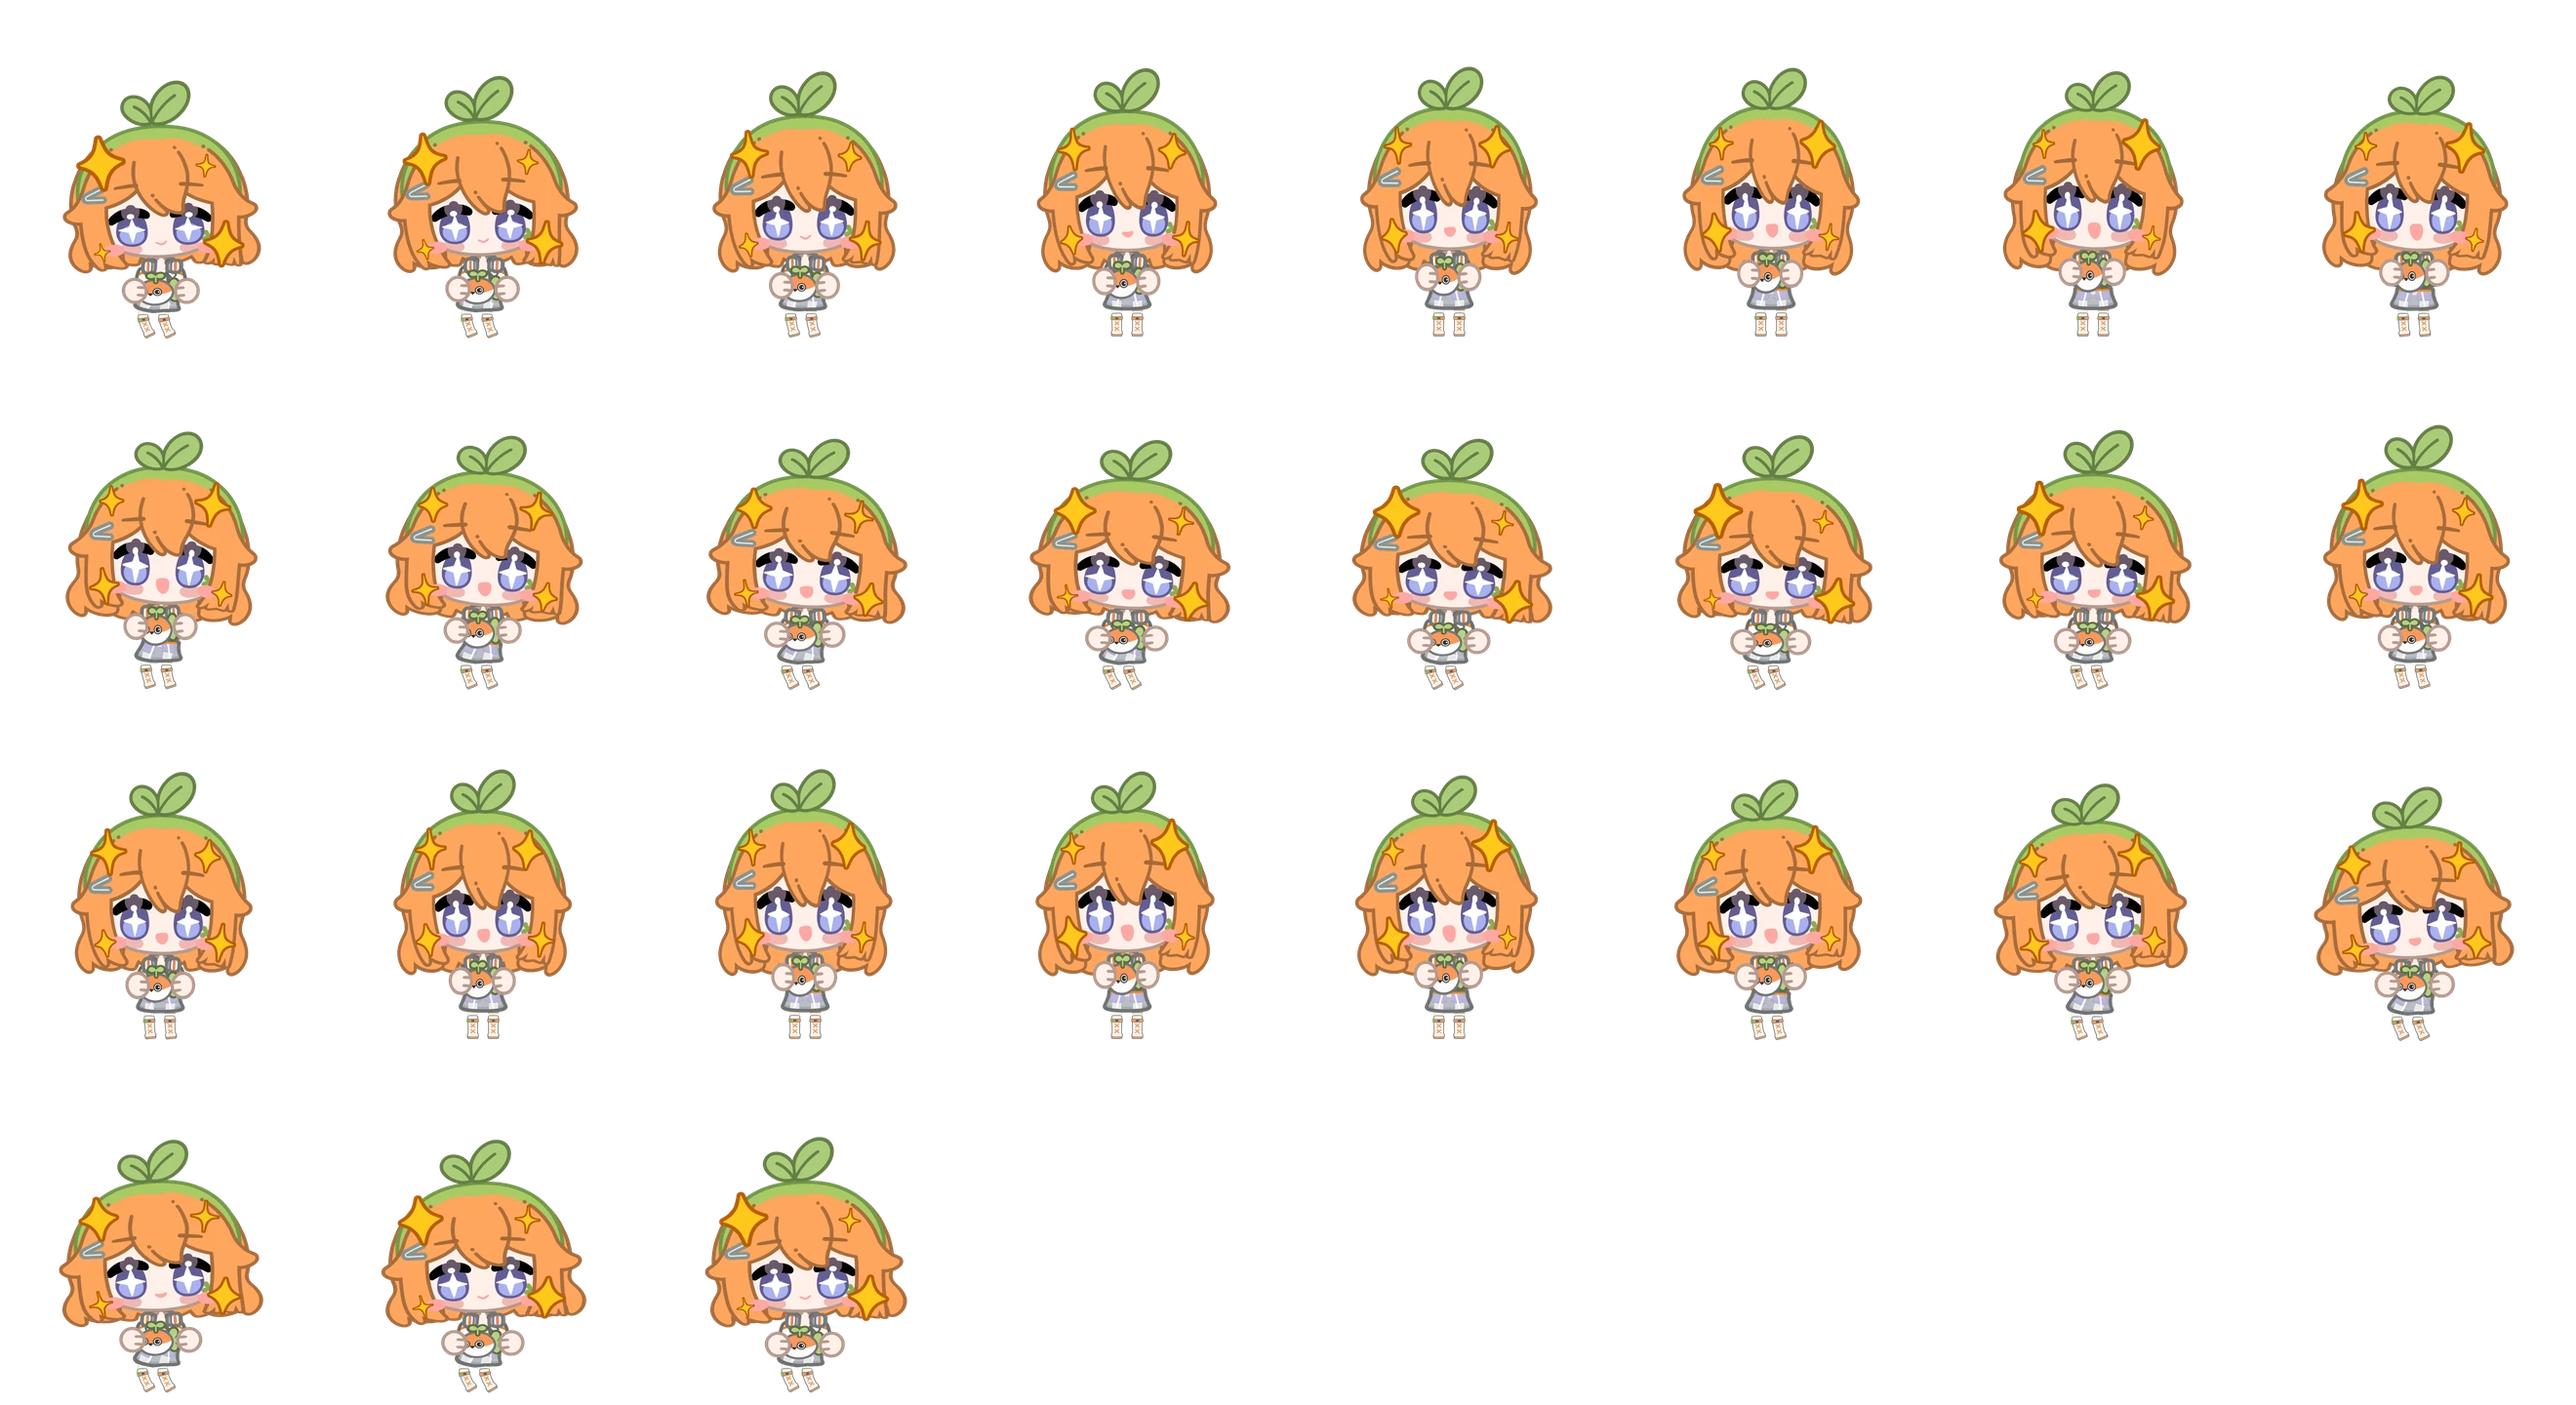
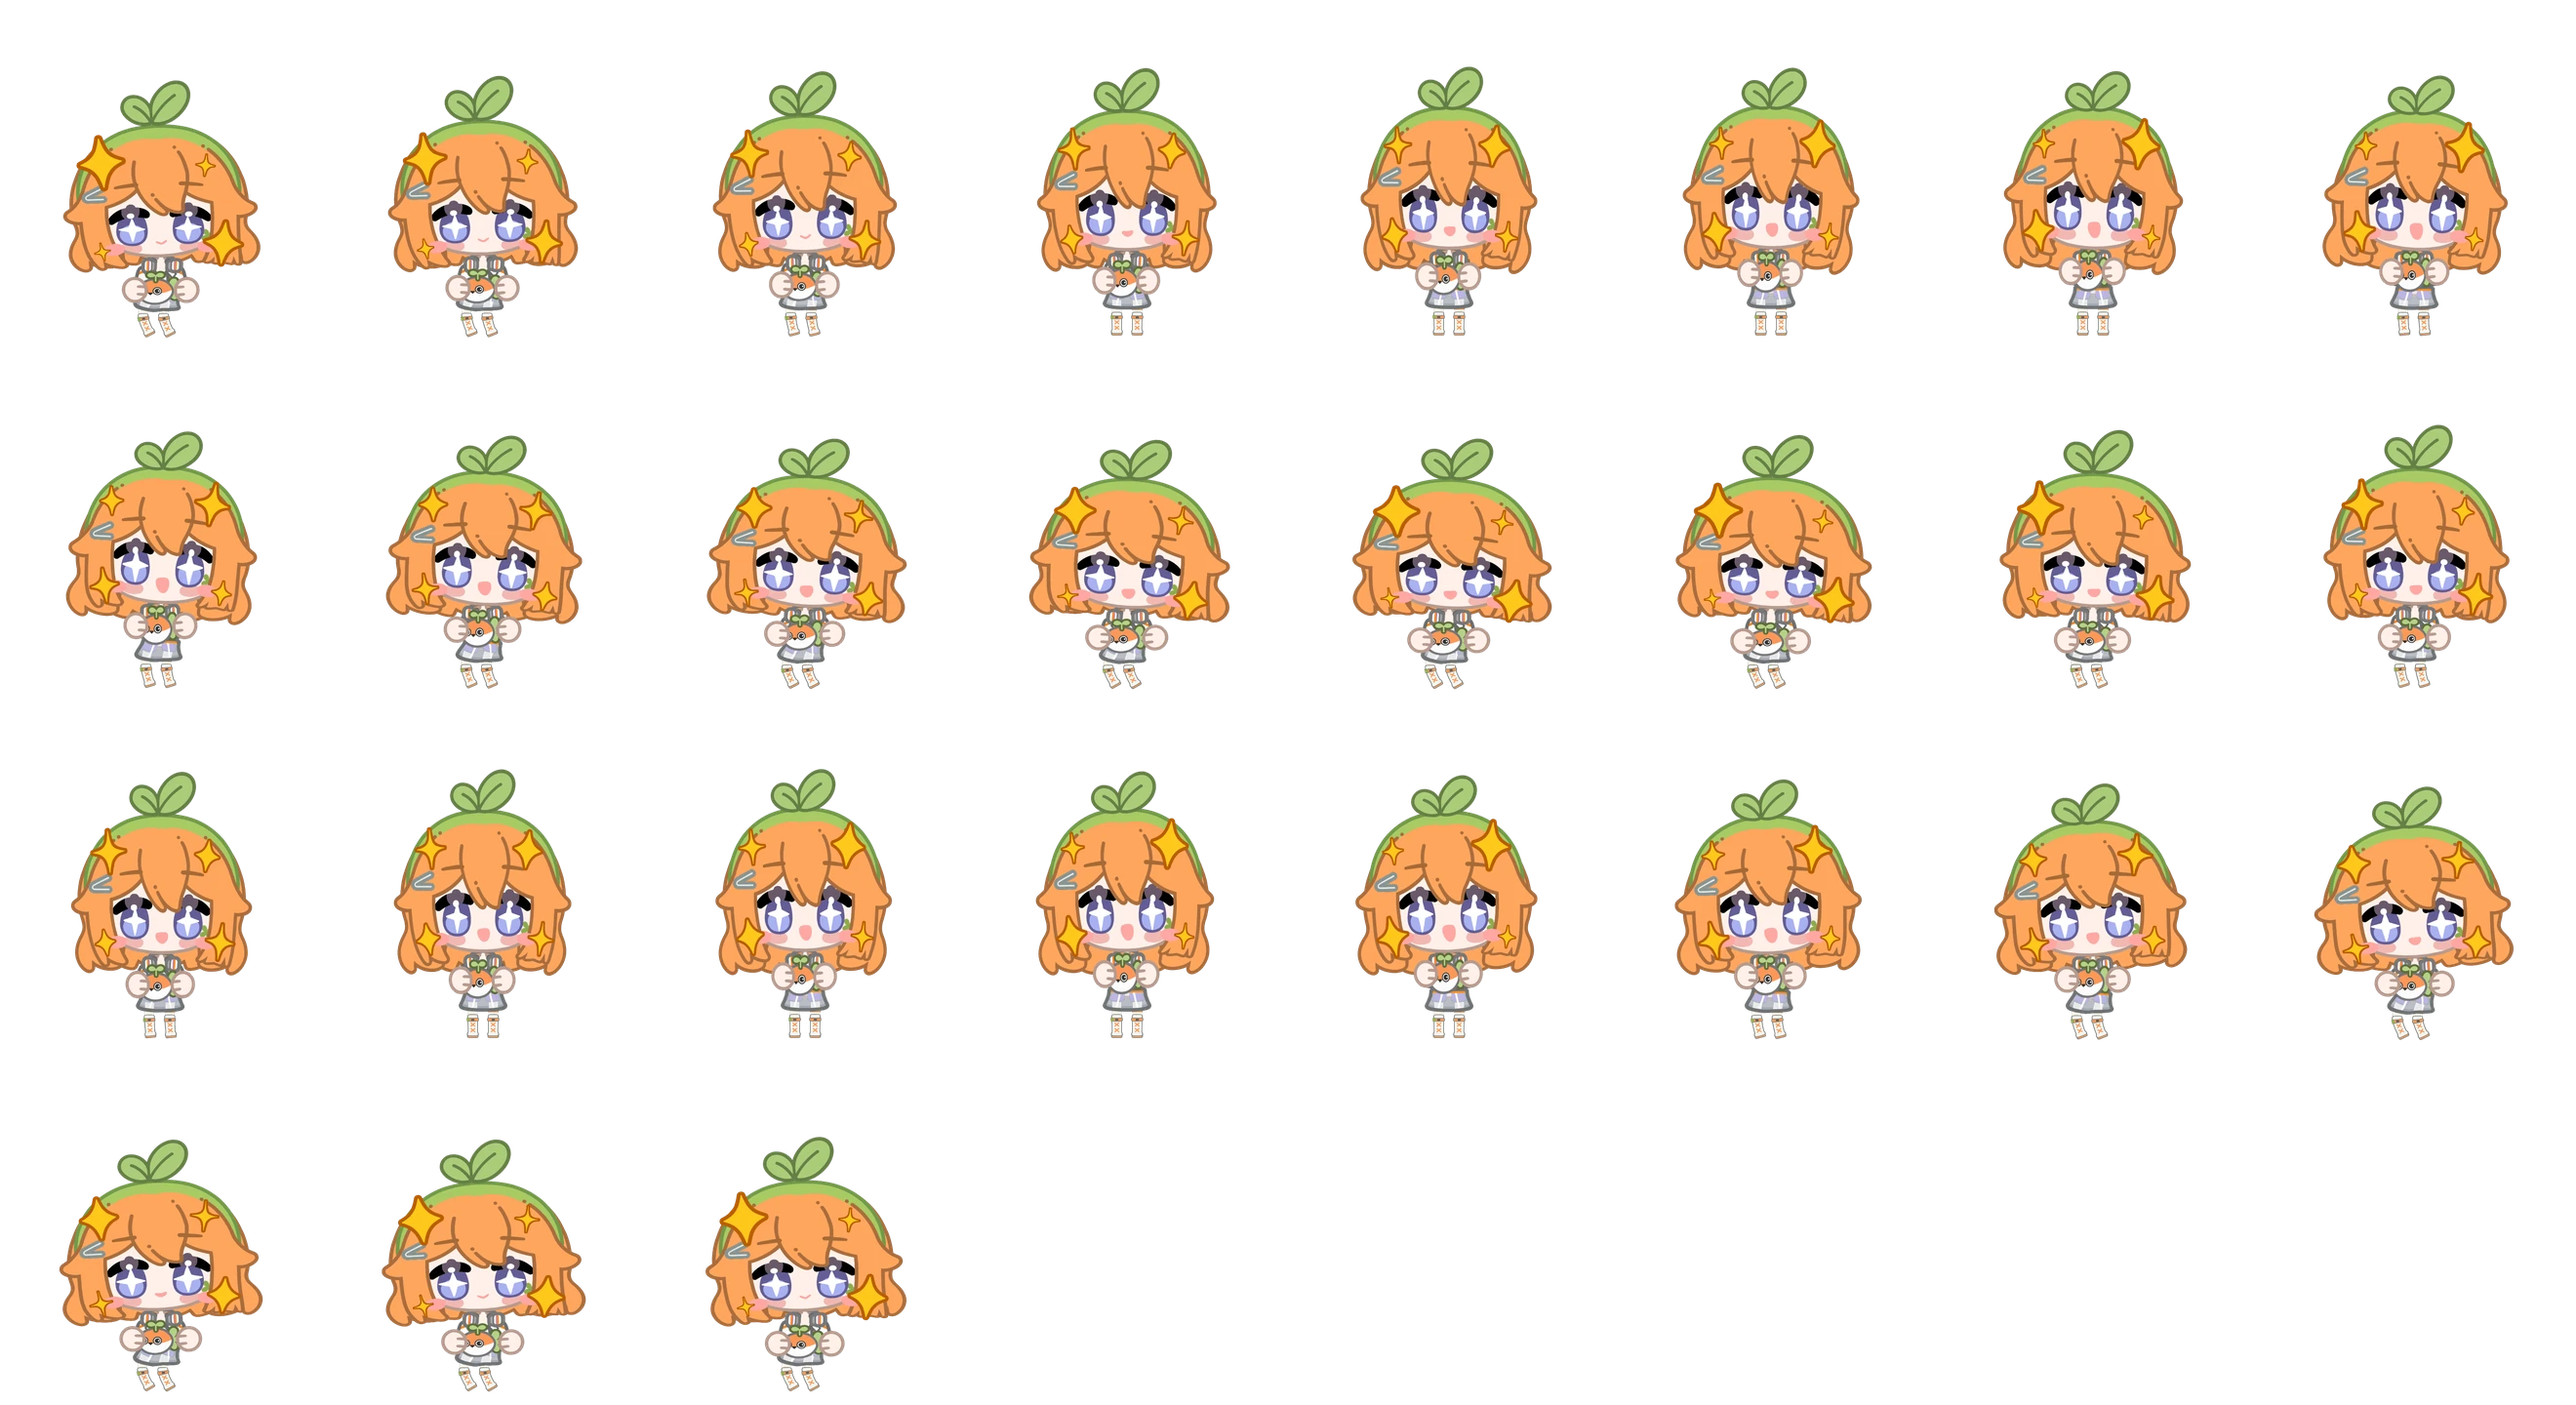
fix: 优化橙芽桌宠动画衔接与重播

diff --git a/src/desktop_pet/web/skin.js b/src/desktop_pet/web/skin.js
@@ -5,8 +5,12 @@
   const builtin = document.getElementById('builtin-pet');
   const canvas = document.getElementById('skin-canvas');
   const ctx = canvas.getContext('2d');
+  const previousCanvas = document.createElement('canvas');
+  const previousCtx = previousCanvas.getContext('2d');
+  const transitionDuration = 160;
   let skin = null, images = {}, active = null, visible = true, switching = 0;
   let selected = '', started = performance.now(), flash = null;
+  let transitionStarted = null, hasFrame = false;
   const history = new Map();
   let builtinEffectNodes = [];
   const fail = (code, message) => ({error: {code, message}});
@@ -31,6 +35,7 @@
     if (revision !== switching) throw new Error('皮肤切换已被新请求替代');
     finish('interrupted', 'skin_changed');
     skin = next; images = loaded; flash = null; selected = '';
+    transitionStarted = null; hasFrame = false;
     const c = skin.canvas;
     // 底部预留阶段字幕，落脚点固定在窗口底边中点，气泡随皮肤锚点调整，输入区仍由主页面管理。
     pet.style.width = c.width + 'px'; pet.style.height = c.height + 'px';
@@ -39,6 +44,7 @@
     pet.dataset.skinHitbox = JSON.stringify(c.hitbox);
     stage.style.setProperty('--pet-top', (24 + c.anchor[1] - c.bubble_anchor[1] + 8) + 'px');
     canvas.width = c.width * 2; canvas.height = c.height * 2;
+    previousCanvas.width = canvas.width; previousCanvas.height = canvas.height;
     canvas.style.width = c.width + 'px'; canvas.style.height = c.height + 'px';
     builtin.style.display = skin.id === 'builtin' ? '' : 'none';
     canvas.style.display = skin.id === 'builtin' ? 'none' : 'block';
@@ -71,15 +77,36 @@
     if (active && now - active.started >= active.duration_ms) finish('finished', 'completed');
     if (flash && now >= flash.until) flash = null;
     if (skin.id === 'builtin' || !visible) return;
-    const name = active?.animation || (['talking', 'dragging'].includes(current) ? skin.states[current] : flash?.name || skin.states[current]);
-    if (selected !== name) { selected = name; started = now; }
+    const event = ['talking', 'dragging'].includes(current) ? null : flash;
+    const name = active?.animation || event?.name || skin.states[current];
+    const selection = active || event || name;
+    if (selected !== selection) {
+      // 保存实际显示的画面，连续点击或中途切换也从当前姿势开始过渡。
+      if (hasFrame) {
+        previousCtx.clearRect(0, 0, previousCanvas.width, previousCanvas.height);
+        previousCtx.drawImage(canvas, 0, 0);
+        transitionStarted = now;
+      }
+      selected = selection; started = now;
+    }
     const animation = skin.animations[name];
-    const elapsed = now - (active?.started ?? started);
+    const elapsed = now - (active?.started ?? event?.started ?? started);
     let progress = elapsed % animation.duration_ms;
     let frame = animation.sequence[0];
     for (const candidate of animation.sequence) { frame = candidate; if (progress < frame.duration_ms) break; progress -= frame.duration_ms; }
     const [x,y,w,h] = frame.rect, c = skin.canvas;
-    ctx.clearRect(0,0,canvas.width,canvas.height); ctx.save(); ctx.scale(2,2);
+    ctx.clearRect(0,0,canvas.width,canvas.height); ctx.save();
+    if (transitionStarted !== null && now - transitionStarted >= transitionDuration) transitionStarted = null;
+    if (transitionStarted !== null) {
+      const progress = (now - transitionStarted) / transitionDuration;
+      const blend = progress * progress * (3 - 2 * progress);
+      ctx.globalAlpha = 1 - blend;
+      ctx.drawImage(previousCanvas, 0, 0);
+      // 透明帧按预乘颜色相加，避免两帧重叠处在过渡中变暗或变透明。
+      ctx.globalCompositeOperation = 'lighter';
+      ctx.globalAlpha = blend;
+    }
+    ctx.scale(2,2);
     const phase = elapsed / Math.max(600, animation.duration_ms) * Math.PI * 2;
     ctx.translate(c.width / 2, c.height - 4);
     if (animation.motion === 'bob') ctx.translate(0, -2 - 2 * Math.sin(phase));
@@ -91,6 +118,7 @@
     const scale = Math.min((c.width - 8) / w, (c.height - 12) / h);
     ctx.drawImage(images[frame.file], x,y,w,h, (c.width-w*scale)/2,c.height-4-h*scale,w*scale,h*scale);
     ctx.restore();
+    hasFrame = true;
   }
   requestAnimationFrame(tick);
   window.petSkin = {
@@ -99,7 +127,10 @@
     event(event) {
       if (!skin || skin.id === 'builtin' || active) return;
       const name = skin.events[event];
-      if (name) flash = {name, until: performance.now() + skin.animations[name].duration_ms};
+      if (name) {
+        const started = performance.now();
+        flash = {name, started, until: started + skin.animations[name].duration_ms};
+      }
     },
     visibility(value) { visible = value; if (!visible) finish('interrupted', 'hidden'); },
     command(action, args, owner) {

diff --git a/docs/desktop-pet.md b/docs/desktop-pet.md
@@ -242,7 +242,7 @@ async def on_desktop_pet_panel_action(self, button_id, action_id):
 
 皮肤从程序自带的 `src/desktop_pet/presets/<目录>/skin.json`、实例的 `data/desktop_pet/skins/<目录>/skin.json` 和 `plugins/<插件目录>/skins/<目录>/skin.json` 发现。程序预设随源码和安装包分发，各 Bot 实例均可选择，无需复制到实例目录。插件可以携带静态皮肤，是否执行插件代码与皮肤选择独立；插件不能自动切换用户的皮肤。以上来源之间 ID 重复会明确报错，导入不覆盖已有皮肤。
 
-「橙芽与小鱼」（`orange-sprout`）是新增的程序预设，使用橙芽角色和小鱼互动动画。待机时小鱼绕飞，点击时抱住小鱼，也可在预览中试播递鱼、欢呼和舞蹈等动作。更新后重启对应的麦麦 Bot，再刷新「桌宠 → 当前皮肤」列表，选择、试播并保存配置后切换；更新不会自动选择新皮肤。预设通过图片帧播放，使用时不需要启动 EmoteLab，也无需安装模型编辑器。
+「橙芽与小鱼」（`orange-sprout`）是程序预设，使用橙芽角色和小鱼互动动画。待机为两秒一轮的轻微呼吸和晃动，点击时从待机姿势抱起小鱼，结束时放下双手、收回小鱼并恢复待机姿势；播放器用短暂淡化衔接不同动作，连续点击会从头重播完整动作。小鱼绕飞保留为可单独试播的动作，也可试播递鱼、欢呼和舞蹈。更新后重新打开桌宠窗口以加载新版播放器和皮肤；首次选择预设可在「桌宠 → 当前皮肤」中试播并保存配置。更新不会自动选择新皮肤。预设通过图片帧播放，使用时不需要启动 EmoteLab，也无需安装模型编辑器。
 
 包内只使用 JSON、静态 PNG/WebP，不执行脚本。ZIP 可以直接包含 skin.json 或套一层目录。每包最多 32 MiB、512 个文件，单张图最多 1600 万像素，单动画最多 240 帧、30 秒。
 

diff --git a/changelogs/changelog.md b/changelogs/changelog.md
@@ -1,5 +1,17 @@
 # 更新日志
 
+# [1.4.4] - 2026-11-8
+
+## 主要功能
+
+- WebUI：首次配置支持测试规划与回复模型的连通性，试聊后可开启基础功能引导。
+- 插件：关键词反应迁入内置插件，旧配置自动迁移。
+
+## 细节与修复
+
+- 聊天：Planner 可通过 stop 静默结束本轮，并记录上下文准备的分项耗时。
+- 桌宠：优化「橙芽与小鱼」的待机、抱鱼动作衔接和连续点击重播。
+
 # [1.4.3] - 2026-11-8
 
 ## 主要功能
